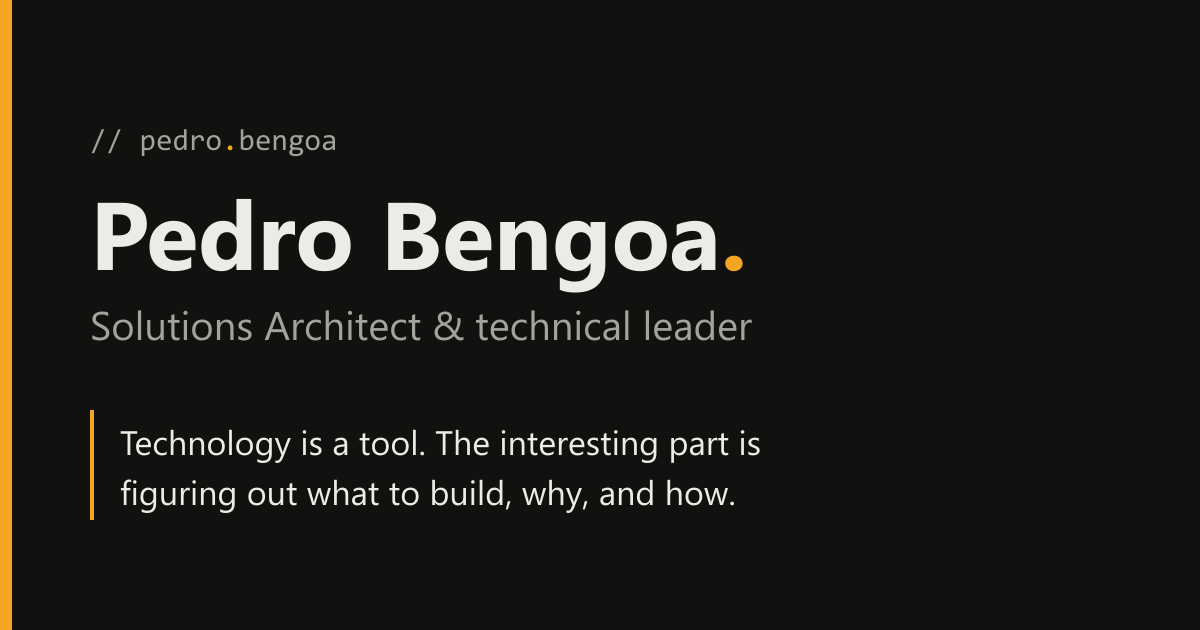
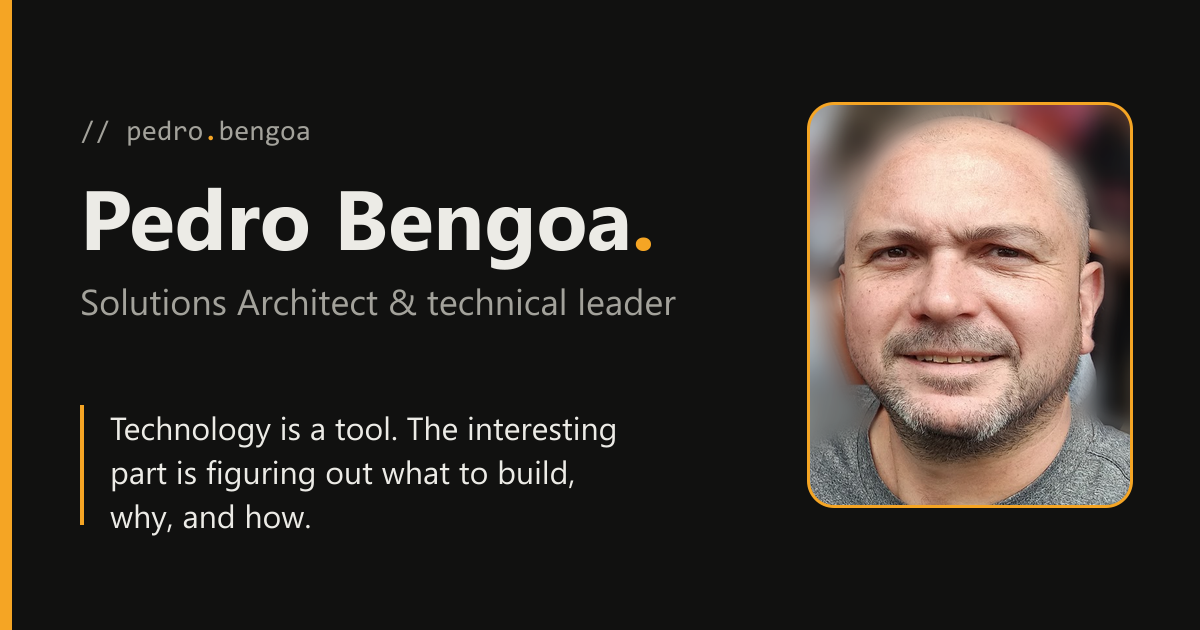
Add profile photo to hero, share images and structured data
The photo's background is blurred with a soft head-and-shoulders mask so
bystanders aren't identifiable; the uncropped sources stay untracked.
scripts/prepare-images.mjs (npm run images) regenerates the photo and OG images.

Changed region(s): [[0.0617, 0.1508, 0.9558, 0.8444], [0.0617, 0.181, 0.2775, 0.2413]]

diff --git a/src/i18n/ui.ts b/src/i18n/ui.ts
@@ -35,7 +35,7 @@ const en = {
   'hero.ctaWork': 'See the work',
   'hero.ctaContact': 'Get in touch',
   'hero.statusLabel': 'Quick facts',
-  'hero.fact.role': 'role',
+  'hero.photoAlt': 'Pedro Bengoa',
   'hero.fact.experience': 'experience',
   'hero.fact.experienceValue': '~20 years in software',
   'hero.fact.location': 'location',
@@ -133,7 +133,7 @@ const es: Record<UIKey, string> = {
   'hero.ctaWork': 'Ver el trabajo',
   'hero.ctaContact': 'Hablemos',
   'hero.statusLabel': 'Datos rápidos',
-  'hero.fact.role': 'rol',
+  'hero.photoAlt': 'Foto de Pedro Bengoa',
   'hero.fact.experience': 'experiencia',
   'hero.fact.experienceValue': '~20 años en software',
   'hero.fact.location': 'ubicación',

diff --git a/src/lib/structured-data.ts b/src/lib/structured-data.ts
@@ -10,6 +10,7 @@ export function personSchema(base: URL) {
     name: site.name,
     jobTitle: 'Solutions Architect',
     url: abs('/', base),
+    image: abs('/images/pedro-bengoa.jpg', base),
     email: `mailto:${site.email}`,
     worksFor: { '@type': 'Organization', name: 'ITX Corp.' },
     address: { '@type': 'PostalAddress', addressLocality: 'La Plata', addressRegion: 'Buenos Aires', addressCountry: 'AR' },
